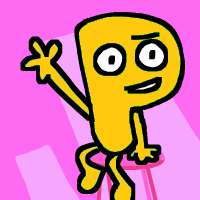
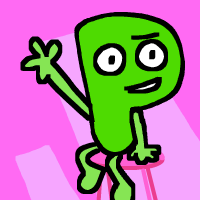
preventing forced april fools revert

diff --git a/characters/index.html b/characters/index.html
@@ -22,7 +22,7 @@
 		
 		<div class="chargrid">
 			<a class="i host" href="t.html"><img alt="T" src="icons0015.png"></a>
-			<a class="i host" href="p.html"><img alt="P" src="icons0016.png"></a>
+			<a class="i host" href="p.html"><img alt="P" src="icons0016_fools.png"></a>
 		</div>
 		<div class="chargrid">
 			<a class="i mn" href="nam.html"><img alt="Not A Match" src="icons0001.png"></a>

diff --git a/characters/p.html b/characters/p.html
@@ -16,7 +16,7 @@
 	<div id="maincontent">
 		<a class="clickon" href="/characters/">Back</a>
 		<div class="namebox">
-			<img alt="P" src="icons0016.png">
+			<img alt="P" src="icons0016_fools.png">
 			<div class="infobox">
 				<p class="title">P</p>
 				<p class="info"><b>Gender:</b> nonbinary</p>
